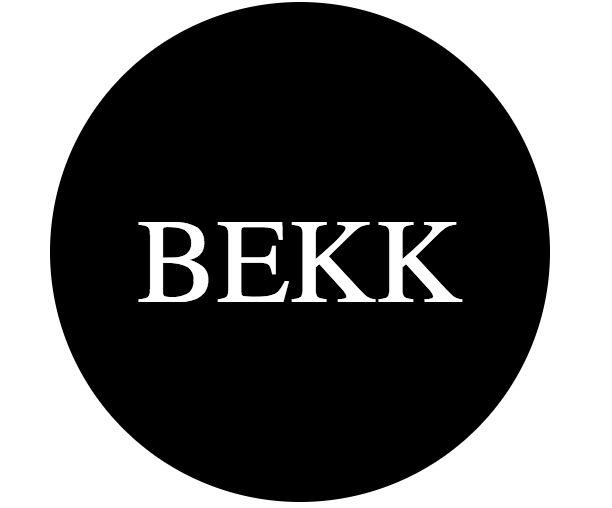
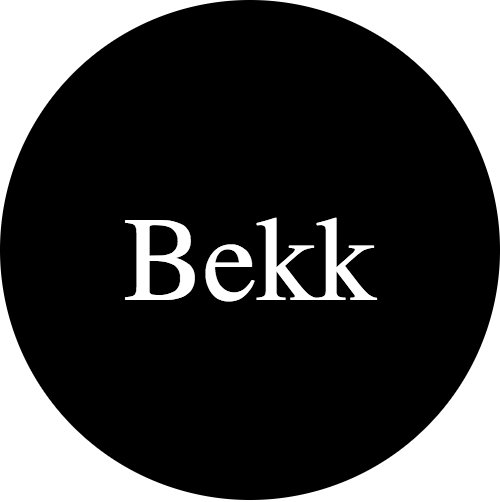
Fiks noen skrivefeil og formuleringer

Changed region(s): [[0.0, 0.0, 1.0, 1.0], [0.21, 0.4183, 0.75, 0.5976]]

diff --git a/oppgaver/3 - svg/README.md b/oppgaver/3 - svg/README.md
@@ -1,8 +1,8 @@
-# SVG
+# 3 - SVG
 
-SVG er et XML-språk, i likhet med HTML, som kan bli brukt til å tegne vektorgrafikk. Enten ved å spesfisere alle linjer og objekter eller ved å modifisere bilder.
+SVG er et XML-basert språk som kan brukes til å tegne vektorgrafikk, enten ved å spesfisere alle linjer og objekter eller ved å modifisere bilder.
 
-## Et enkelt eksempel.
+## Et enkelt eksempel
 
 ```html
 <svg
@@ -13,11 +13,11 @@ SVG er et XML-språk, i likhet med HTML, som kan bli brukt til å tegne vektorgr
 >
   <circle cx="150" cy="125" r="125" fill="black" />
 
-  <text x="150" y="150" font-size="60" text-anchor="middle" fill="white">BEKK</text>
+  <text x="150" y="150" font-size="60" text-anchor="middle" fill="white">Bekk</text>
 </svg>
 ```
 
-Ved å kopiere og lime inn koden over i en fil med navn bekk.svg og åpne den i nettleseren vil man se følgende skjermdump.
+Ved å kopiere og lime inn koden over i en fil med navn `bekk.svg` og åpne den i nettleseren vil man se følgende bilde:
 
 <img src="img/bekk.png" height="200">
 
@@ -25,7 +25,7 @@ Ved å kopiere og lime inn koden over i en fil med navn bekk.svg og åpne den i 
 
 `circle`-elementet tegner en sirkel med sentrum i `cx="150" cy="125"` med radius 125 piksler (`r="125"`) og svart bakgrunnsfarge (`fill="black"`).
 
-`text`-elementet skriver teksten `BEKK` med hvit skrift (`fill="white"`) i skriftstørrelse 60px (`font-size="60"`) på posisjon spesifisert med `x="150" y="150" text-anchor="middle"`
+`text`-elementet skriver teksten `Bekk` med hvit skrift (`fill="white"`) i skriftstørrelse 60px (`font-size="60"`) på posisjon spesifisert med `x="150" y="150" text-anchor="middle"`
 
 ### Posisjonering
 
@@ -35,11 +35,11 @@ Man bruker et koordinatsystem for å posisjonere elementer i svg-dokumentet.
 
 Koordinatsystemet startet i øvre venstre hjørne (0,0). Posisjoner måles i piksler fra dette hjørnet, med positiv x-retning til høyre og positiv y-retning nedover.
 
-> Legg merke til at dette er motsatt av hva man lærte på skolen.
+> Legg merke til at den vertikale retningen er motsatt av hva man lærte på skolen.
 
 ### :trophy: [Oppgave 1](https://codepen.io/sveinpg/pen/qJErqy)
 
-Flytt den rød firkanten ned i høyre hjørne.
+Flytt den røde firkanten ned i høyre hjørne.
 
 <img src="img/rect.png" height="200">
 
@@ -83,11 +83,11 @@ Gi hjertet rød fyllfarge og en svart strek rundt.
 
 ## Styling med CSS
 
-I tillegg til å sette attributter på objekter kan man bruke CSS til å style `fill` og `stroke`. Ikke alle attributter kan settes med CSS. `fill`, `stroke` og `stroke-dasharray` er blandt attributtene som kan settes med CSS. Attributter som `width`, `height` og `path`-spesifikke kommandoer kan ikke settes med CSS.
+I tillegg til å sette attributter på objekter kan man bruke CSS til å style `fill` og `stroke`. Ikke alle attributter kan settes med CSS. `fill`, `stroke` og `stroke-dasharray` er blant attributtene som kan settes med CSS. Attributter som `width`, `height` og `path`-spesifikke kommandoer kan ikke settes med CSS.
 
-> Man kan lese [SVG spesifikasjonen](https://www.w3.org/TR/SVG/propidx.html) for å se hvilke som lar seg modifisere med CSS. Attributene som blir klassifisert som `properties` kan man modifisere med CSS.
+> Man kan lese [SVG spesifikasjonen](https://www.w3.org/TR/SVG/propidx.html) for å se hvilke egenskaper som lar seg modifisere med CSS. Attributene som blir klassifisert som `properties` kan man modifisere med CSS.
 
-Gitt at man har følgende svg.
+Gitt at man har følgende svg:
 
 ```html
 <?xml version="1.0" standalone="no"?>
@@ -96,7 +96,7 @@ Gitt at man har følgende svg.
 </svg>
 ```
 
-Med følgende styling.
+Med følgende styling:
 
 ```css
 #MyRect {
@@ -119,7 +119,7 @@ Gi hjertet rød fyllfarge og en svart strek rundt ved hjelp av css.
 
 Hvis du har vært inne på uxcup.bekk.no har du nok sett de kule animasjonene vi har der. Disse er laget av SVGer som er animert med CSS. Man setter en klasse på SVG-elementet og bruker denne klassen til å gi SVGen en animasjon via `animation` nøkkelen i CSS.
 
-Skulle du ønske at du kunne lage like kule animasjoner? Flaks for deg, det er nemlig det du skal nå.
+Skulle du ønske at du kunne lage like koselige animasjoner? Flaks for deg, det er nemlig det du skal nå.
 
 ### :trophy: [Oppgave 5](https://codepen.io/mfeiring/pen/JmdVNM)
 

diff --git a/oppgaver/2 - spin it!/README.md b/oppgaver/2 - spin it!/README.md
@@ -1,4 +1,4 @@
-# 3 - Spin it!
+# 2 - Spin it!
 
 I denne delen skal vi kombinere det vi har sett på i de tidligere delene.
 
@@ -17,7 +17,7 @@ Animer elementene som er satt opp, slik:
 <img src="img/spinner.gif" height="150">
 
 :bulb: Bruk `scale` til å endre høyden  
-:bulb: Det kan være smart å sette opp litt flere `keyframes`  
+:bulb: Det kan være smart å sette opp litt flere `keyframes`
 
 :school_satchel: [Fasit](https://codepen.io/mfeiring/pen/MPwwLZ)
 
@@ -27,6 +27,6 @@ Animer elementene som er satt opp, slik:
 
 <img src="img/clockspinner.gif" height="150">
 
-:bulb: Sentrum for animasjonen kan defineres med [`transform-origin`](https://developer.mozilla.org/en-US/docs/Web/CSS/transform-origin)  
+:bulb: Sentrum for animasjonen kan defineres med [`transform-origin`](https://developer.mozilla.org/en-US/docs/Web/CSS/transform-origin)
 
 :school_satchel: [Fasit](https://codepen.io/mfeiring/pen/JmdGdO)

diff --git a/oppgaver/1 - transisjoner og animasjoner/README.md b/oppgaver/1 - transisjoner og animasjoner/README.md
@@ -78,7 +78,7 @@ Den siste egenskapen ved en transisjon vi kan tweake på, er hvordan den akseler
 
 Defaultverdien er `ease`, men vi kan endre den til f.eks. `linear` slik: `transition: color 200ms 100ms linear`.
 
-Det er også mulig å lage en egendefinert akselerasjonskurve, ved å bruke [cubic-bezier](http://cubic-bezier.com/#.17,.67,.83,.67).
+Det er også mulig å lage en egendefinert akselerasjonskurve, ved å bruke [cubic-bezier](http://cubic-bezier.com/#.17,.67,.83,.67), eller bruke en av bezier-funksjonene definert [her](https://easings.net/nb) som inspirasjon.
 
 :trophy: 4. Sett akselerasjonen på `color`-transisjonen til `ease-in`. Prøv å bruke Chrome DevTools sin [cubic bezier editor](https://imgur.com/gallery/o2c15CZ) til å tweake på kurven.
 
